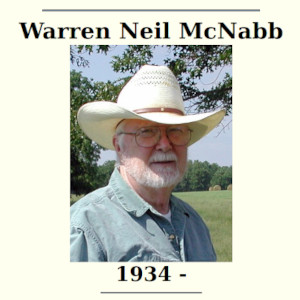
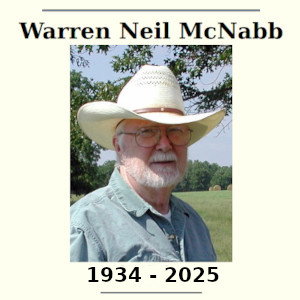
Uncle Neil update

Changed region(s): [[0.3, 0.87, 0.75, 0.96]]

diff --git a/McNabb/myhtml/McNabb Dec-2023.html b/McNabb/myhtml/McNabb Dec-2023.html
@@ -52,109 +52,109 @@
 </style>
 </head>
 <body>
-<p><center><big><strong>McNabb Family 1702 - 2025</strong></big><br>(click on name to expand)</center>
+<p><center><big><strong>McNabb Family 1702 - 2025</strong></big></center>
 <ul class="tree">
 <li><details open><summary><span class=name>William McNabb</span> (b.1702 Glendochart, Scotland) (d.1789 Watauga Cty, Tenn - now North Carolina) <span class=heart>&hearts;</span> Betty Aiken (b.  Glendochart, Perthshire, Scotland) (d. Scotland)</summary>
   <ul>
-  <li><details><summary><span class=name>Baptist B. McNabb</span> (b.1723 Glendochart, Perthshire, Scotland) (d.1784 Washington Cty, Tenn/NC) <span class=heart>&hearts;</span> Kathren (b.1737 Augusta Cty, Virginia) (d.before.1784 Washington Cty, Tenn/NC)</summary>
+  <li><details open><summary><span class=name>Baptist B. McNabb</span> (b.1723 Glendochart, Perthshire, Scotland) (d.1784 Washington Cty, Tenn/NC) <span class=heart>&hearts;</span> Kathren (b.1737 Augusta Cty, Virginia) (d.before.1784 Washington Cty, Tenn/NC)</summary>
     <ul>
     <li>James Jonathan McNabb</li>
     <li>Katrin McNabb</li>
     <li>Margaret McNabb</li>
     <li>Mary McNabb</li>
     <li>William McNabb</li>
-    <li><details><summary><span class=name>David McNabb</span> (b.1755 Augusta Cty, Virginia) (d.1826 Carter Cty, Tenn) m.1778 <span class=heart>&hearts;</span> Elizabeth Taylor (b.1757 Augusta Cty, Virginia) (d.1848 Carter Cty, Tenn)</summary>
+    <li><details open><summary><span class=name>David McNabb</span> (b.1755 Augusta Cty, Virginia) (d.1826 Carter Cty, Tenn) m.1778 <span class=heart>&hearts;</span> Elizabeth Taylor (b.1757 Augusta Cty, Virginia) (d.1848 Carter Cty, Tenn)</summary>
       <ul>
       <li>Absalom McNabb (b.1779 Washington Cty, Tenn/NC) (d.1858 Bakers Creek cemetery) m.1803 <span class=heart>&hearts;</span> Mary Lusk</li>
       <li>Rhoda McNabb (b.1780 Washington Cty, Tenn/NC) m.1803</li>
-      <li><details><summary><span class=name>Nathaniel Taylor McNabb</span> (b.1783 Washington Cty, Tenn/NC) (d.1840 Cleveland, Bradley Cty, Tenn) m.1805 <span class=heart>&hearts;</span> Ellender McCubbins (b.abt.1818 Virginia) (d.abt.1860 Cleveland, Bradley Cty, Tenn)</summary>
+      <li><details open><summary><span class=name>Nathaniel Taylor McNabb</span> (b.1783 Washington Cty, Tenn/NC) (d.1840 Cleveland, Bradley Cty, Tenn) m.1805 <span class=heart>&hearts;</span> Ellender McCubbins (b.abt.1818 Virginia) (d.abt.1860 Cleveland, Bradley Cty, Tenn)</summary>
         <ul>
         <li>Alfred W. McNabb (b.1809 Carter Cty, Tenn) (d.abt.1858 Bradley Cty, Tenn) m.1834 <span class=heart>&hearts;</span> Susanah A. Ramsey</li>
-        <li><details><summary><span class=name>James Pinckney McNabb</span> (b.1814 Carter Cty, Tenn) (d.1893 Marshfield, Webster Cty, Missouri) m.1836 <span class=heart>&hearts;</span> Easter Flanagan (b.abt.1784 Cherokee Indian Nation, Tenn) d.abt.1860</summary>
+        <li><details open><summary><span class=name>James Pinckney McNabb</span> (b.1814 Carter Cty, Tenn) (d.1893 Marshfield, Webster Cty, Missouri) m.1836 <span class=heart>&hearts;</span> Easter Flanagan (b.abt.1784 Cherokee Indian Nation, Tenn) d.abt.1860</summary>
           <ul>
           <li>Albert Houston W. McNabb (b.1837 McMinn Cty, Tenn) (d.1923 Webster Cty, Missouri) m.1858 <span class=heart>&hearts;</span> Mary J. Long</li>
           <li>Mathew McNabb (b.1839 Tennessee) (d.1857 Webster Cty, Missouri) </li>
           <li>James M. McNabb (b.1841 Carter Cty, Tenn) (m.1860 Cooke Cty, Texas)<span class=heart>&hearts;</span> Eliza A. Chapman</li>
           <li>Theodore Washington McNabb (b.1843 Bradley Cty, Tenn) d.1926 m.1868 <span class=heart>&hearts;</span> Eliza Jane Kitchen</li>
           <li>Mary E. McNabb (b.1846 Carter Cty, Tenn) </li>
-          <li><details><summary><span class=name>Nathaniel Armstrong McNabb</span> (b.1848 Carter Cty, Tenn) (d.1900 Ioni Creek Hmstd, Stephens Cty, Texas) (m.1872 Fannin Cty, Texas) <span class=heart>&hearts;</span> Rebecca Ann Turner (b.1857 Honey Grove, Fannin Cty, Texas) (d.1936  Ioni Creek Hmstd, Stephens Cty, Texas)</summary>
+          <li><details open><summary><span class=name>Nathaniel Armstrong McNabb</span> (b.1848 Carter Cty, Tenn) (d.1900 Ioni Creek Hmstd, Stephens Cty, Texas) (m.1872 Fannin Cty, Texas) <span class=heart>&hearts;</span> Rebecca Ann Turner (b.1857 Honey Grove, Fannin Cty, Texas) (d.1936  Ioni Creek Hmstd, Stephens Cty, Texas)</summary>
             <ul>
-            <li><details><summary><span class=name>Walter Scott McNabb</span> (b.1874 Desdemona, Eastland Cty, Texas) (d.1936 Amarillo, Potter Cty, Texas) (m.1896 Caddo, Stephens Cty, Texas) <span class=heart>&hearts;</span> Birtie Sophia McNeil b.1880 d.1969</summary>
+            <li><details open><summary><span class=name>Walter Scott McNabb</span> (b.1874 Desdemona, Eastland Cty, Texas) (d.1936 Amarillo, Potter Cty, Texas) (m.1896 Caddo, Stephens Cty, Texas) <span class=heart>&hearts;</span> Birtie Sophia McNeil b.1880 d.1969</summary>
               <ul>
-              <li><details><summary><span class=name>Warren Gilbert McNabb</span> b.1898 d.1975 m.1930 <span class=heart>&hearts;</span> Ruth Pauline Prutsman b.1906 d.1997</summary>
+              <li><details open><summary><span class=name>Warren Gilbert McNabb</span> b.1898 d.1975 m.1930 <span class=heart>&hearts;</span> Ruth Pauline Prutsman b.1906 d.1997</summary>
                 <ul>
-                <li><details><summary><span class=name>Beverly Nan McNabb</span> b.1932 <span class=heart>&hearts;</span> Wylie Edgar Duke Jr. b.1930 m.1952 d.1992, Harry Joseph Orr b.1931 d.2007 m.1965&nbsp;&nbsp;&nbsp;</summary>
+                <li><details open><summary><span class=name>Beverly Nan McNabb</span> b.1932 <span class=heart>&hearts;</span> Wylie Edgar Duke Jr. b.1930 m.1952 d.1992, Harry Joseph Orr b.1931 d.2007 m.1965&nbsp;&nbsp;&nbsp;</summary>
                   <ul>
                   <li>Wylie Paul Duke b.1953 m.1990 <span class=heart>&hearts;</span> Katharine H. Dewhurst b.1957</li>
-                  <li><details><summary><span class=name>Ellen Lucille Duke</span> b.1955 <span class=heart>&hearts;</span> Michael Stuart Lazarus b.1948 m.1987 d.2011, William Smith b.1955 m.2011</summary>
+                  <li><details open><summary><span class=name>Ellen Lucille Duke</span> b.1955 <span class=heart>&hearts;</span> Michael Stuart Lazarus b.1948 m.1987 d.2011, William Smith b.1955 m.2011</summary>
                     <ul>
-                      <li><details><summary><span class=name>Jillian Lazarus</span> b.1990 <span class=heart>&hearts;</span> Anthony R. Torres b.1972</summary>
+                      <li><details open><summary><span class=name>Jillian Lazarus</span> b.1990 <span class=heart>&hearts;</span> Anthony R. Torres b.1972</summary>
                         <ul>
                         <li>Noah Torres b.2020</li>
                         <li>Violet Audrey Torres b.2024</li>
-                        </ul></details>
+                        </ul></details open>
                       </li>
-                    </ul></details>
+                    </ul></details open>
                   </li>
                   <li>Laurie Annette Duke b.1957</li>
-                 </ul></details>
+                 </ul></details open>
                 </li> 
-                <li><details><summary><span class=name>Warren Neil McNabb</span> b.1934 m.1952 <span class=heart>&hearts;</span> Geraldine McCurry d.2023</summary>
+                <li><details open><summary><span class=name>Warren Neil McNabb</span> b.1934 d.2025 m.1952 <span class=heart>&hearts;</span> Geraldine McCurry d.2023</summary>
                   <ul>
-                  <li><details><summary><span class=name>Scott McNabb</span> b.1954 d.2020 <span class=heart>&hearts;</span> Sandy Prilliman</summary>
+                  <li><details open><summary><span class=name>Scott McNabb</span> b.1954 d.2020 <span class=heart>&hearts;</span> Sandy Prilliman</summary>
                     <ul>
-                    <li><details><summary><span class=name>Neala Aileen McNabb</span> b.1979 <span class=heart>&hearts;</span> Lopez</summary>
+                    <li><details open><summary><span class=name>Neala Aileen McNabb</span> b.1979 <span class=heart>&hearts;</span> Lopez</summary>
                       <ul>
                       <li>Drake Lee James Lopez b.2002 </li>
                       <li>Layla Grace kumara Sinha b.2007 </li>
                       <li>Dominic Dane Scott Flores b.2016 </li>
-                      </ul></details>
+                      </ul></details open>
                     </li>
-                    </ul></details>
+                    </ul></details open>
                   </li>
-                  <li><details><summary><span class=name>Valerie McNabb</span> b.1956 d.2024 <span class=heart>&hearts;</span> Randy Spencer</summary>
+                  <li><details open><summary><span class=name>Valerie McNabb</span> b.1956 d.2024 <span class=heart>&hearts;</span> Randy Spencer</summary>
                     <ul>
                     <li>Beth Spencer</li>
                     <li>Daniel Spencer</li>
-                    </ul></details>
+                    </ul></details open>
                   </li>
-                  <li><details><summary><span class=name>Neeve McNabb</span> b.1964 <span class=heart>&hearts;</span> Eric Forshee m.1982, Edgar Armando Valenzuela b.1988 m.2017</summary>
+                  <li><details open><summary><span class=name>Neeve McNabb</span> b.1964 <span class=heart>&hearts;</span> Eric Forshee m.1982, Edgar Armando Valenzuela b.1988 m.2017</summary>
                     <ul>
                     <li>Joel Eric Forshee b.1983</li>
-                    <li><details><summary><span class=name>Arika Neeve Forshee</span> b.1985 m.2014 <span class=heart>&hearts;</span> Dustin Doyle Hall b.1983 </summary>
+                    <li><details open><summary><span class=name>Arika Neeve Forshee</span> b.1985 m.2014 <span class=heart>&hearts;</span> Dustin Doyle Hall b.1983 </summary>
                       <ul>
                       <li>Colter Jonathan Hall b.2008 mother.Arika</li>
                       <li>Stella Veda Hall b.2015 </li>
                       <li>Sylas Eric Hall b.2017 </li>
                       <li>Joshua Dustin Hall b.2018 </li>
-                      </ul></details>
+                      </ul></details open>
                     </li>
-                    <li><details><summary><span class=name>Ashely Elise Forshee</span> b.1988 m.2017 <span class=heart>&hearts;</span> Key Joseph Clark b.1977</summary>
+                    <li><details open><summary><span class=name>Ashely Elise Forshee</span> b.1988 m.2017 <span class=heart>&hearts;</span> Key Joseph Clark b.1977</summary>
                       <ul>
                       <li>Jade Lynn Clark b.2007 step.child </li>
                       <li>Koda Walter Clark  b.2018 </li>
                       <li>Enid Elise Clark b.2020 </li>
-                      </ul></details>
+                      </ul></details open>
                     </li>
                     <li>Jasmyn Elyssa Forshee b.1991 </li>
-                    </ul></details>
+                    </ul></details open>
                   </li>
-                  </ul></details>
+                  </ul></details open>
                 </li> 
-                </ul></details>
+                </ul></details open>
               </li> 
-              <li><details><summary><span class=name>Viola Craig McNabb</span> b.1900 d.1996 <span class=heart>&hearts;</span> Solomon Johnson Davidson m.1917, Willam Whitson</summary>
+              <li><details open><summary><span class=name>Viola Craig McNabb</span> b.1900 d.1996 <span class=heart>&hearts;</span> Solomon Johnson Davidson m.1917, Willam Whitson</summary>
                 <ul>
                   <li>Walter Craig Davidson b.1920 </li>
-                  <li><details><summary><span class=name>Ann Carol Davidson</span> b.1922 d.2020 <span class=heart>&hearts;</span> James Paul Nagel b.1917 d.2008</summary>
+                  <li><details open><summary><span class=name>Ann Carol Davidson</span> b.1922 d.2020 <span class=heart>&hearts;</span> James Paul Nagel b.1917 d.2008</summary>
                     <ul>
                     <li>Paula Carol Nagel b.1942</li>
                     <li>James Craig Nagel b.1944</li>
-                    </ul></details>
+                    </ul></details open>
                   </li>
-                </ul></details>
+                </ul></details open>
               </li> 
-              </ul></details>
+              </ul></details open>
             </li> 
             <li>George R. McNabb (b.1877 Stephens Cty, Texas) (d.1880 Macedonia Cemetery, Texas)</li>
             <li>James Pinckney II McNabb (b.1880 Stephens Cty, Texas) (d.1967 Quanah, Texas) m.1899 <span class=heart>&hearts;</span> Augusta Fancher</li>
@@ -164,21 +164,21 @@
             <li>Myrtle E. McNabb (b.1893 Stephens Cty, Texas) d.1935 m.1919 <span class=heart>&hearts;</span> Charles Adams</li>
             <li>Clark McNabb (b.1896 Stephens Cty, Texas) (d:unkn Range, Eastland Cty, Texas) <span class=heart>&hearts;</span> Myrtle Smith</li>
             <li>Monti McNabb (b.1897 Stephens Cty, Texas) (d.1906 Macedonia Cemetery, Texas)</li>
-            </ul></details>
+            </ul></details open>
           </li> 
           <li>William A. McNabb (b.1850 Bradley Cty, Tenn) (d.1900 Missouri) <span class=heart>&hearts;</span> Sarah Clementine Webb</li>
           <li>Rebecca J. McNabb (b.1852 Webster Cty, Missouri)</li>
           <li>A.J. McNabb b.1853</li>
           <li>Harriet Ann McNabb (b.1855 Webster Cty, Mo.) (d.abt.1905 Webster Cty, Mo.) m.abt.1870 <span class=heart>&hearts;</span> Franklin Minor, Pastor</li>
           <li>Lucretia McNabb (b.1857 Webster Cty, Mo.) <span class=heart>&hearts;</span> M. Hoff</li>
-          </ul></details>
+          </ul></details open>
         </li> 
         <li>Nathaniel T. McNabb (b.1818 Carter Cty, Tenn) d.1897 <span class=heart>&hearts;</span> Serenia C. McInturff, Lize Cath Walls, Nancy Caroline Walls</li>
         <li>Louisa McNabb (b.1819 Carter Cty, Tenn) m.1937 <span class=heart>&hearts;</span> Francis M. Cooper</li>
         <li>Lorena McNabb (b.1823 Carter Cty, Tenn) m.1841 <span class=heart>&hearts;</span> Thomas Stanley</li>
         <li>Armstrong McNabb (b.1825 Carter Cty, Tenn) m.1861 <span class=heart>&hearts;</span> Naomi Henry</li>
         <li>Fode McNabb (b.1827 Carter Cty, Tenn)</li>
-        </ul></details>
+        </ul></details open>
       </li> 
       <li>Catherine McNabb (b.1785 Washington Cty, Tenn/NC)</li>
       <li>Jane McNabb (b.1787 Washington Cty, Tenn/NC) m.1809 <span class=heart>&hearts; </span>John Brown</li>
@@ -190,12 +190,12 @@
       <li>Issac McNabb (b.1800 Carter Cty, Tenn)</li>
       <li>Alban McNabb (b.1802 Carter Cty, Tenn) d.after.1880</li>
       <li>Taylor McNabb (b.1805 Carter Cty, Tenn) (d.1876 McMinn Cty, Tenn)</li>
-      </ul></details>
+      </ul></details open>
     </li> 
     <li>John McNabb b.1757</li>
     <li>Isabella McNabb b.1767 (m.1786 Washington Cty, NC) <span class=heart>&hearts;</span>  Andrew Taylor II .b1733 d.after.1780</li>
     </ul>
-  </details></li>
+  </details open></li>
   <li>John McNabb</li>
   <li>Samuel McNabb</li>
   <li>Betty McNabb (d.1809 Rockbridge, Virginia)</li>
@@ -204,7 +204,7 @@
   <li>William McNabb</li>
   <li>Andrew McNabb</li>
   </ul>
-</details></li>
+</details open></li>
 </ul>
 </body>
 </html>

diff --git a/McNabb/myhtml/Warren Neil McNabb.html b/McNabb/myhtml/Warren Neil McNabb.html
@@ -15,7 +15,7 @@
 <span class=poemText>Rancher &amp; Poet </span><br>
 <span class=poemText>- His Poems -</span>
 -->
-<span class=dateRange>1934 - </span><br>
+<span class=dateRange>1934 - 2025</span><br>
 
 </center>
 <hr style="width:45%; height:4px;" />
